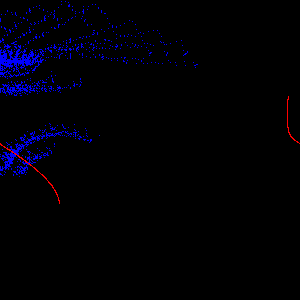
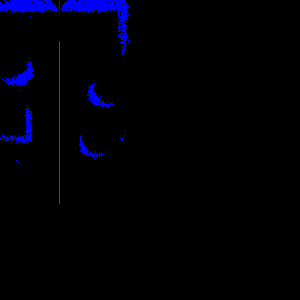
progress on lab 4

diff --git a/lab4/controllers/csci3302_lab4/csci3302_lab4.py b/lab4/controllers/csci3302_lab4/csci3302_lab4.py
@@ -116,6 +116,7 @@ def bresenham_line(x0, y0, x1, y1):
 occupancy_grid = [[None for _ in range(map_width)] for _ in range(map_height)]
 display.setColor(0x000000)  # Black background.
 display.fillRectangle(0, 0, map_width, map_height)
+display.imageSave(None,"map.png") 
 while robot.step(SIM_TIMESTEP) != -1:     
     #####################################################
     #                 Sensing                           #
@@ -147,21 +148,22 @@ while robot.step(SIM_TIMESTEP) != -1:
     # rx and ry into world coordinates wx and wy. 
     # The arena is 1x1m2 and its origin is in the top left of the arena. 
     # if state=='stationary':
-    robot_world_trans_matrix = np.array([
-        [np.cos(pose_theta),  np.sin(pose_theta), pose_x],
-        [-np.sin(pose_theta), np.cos(pose_theta), pose_y],
-        [0,                   0,                1     ]
-    ])
     free_space_lines = []
     obstacle_points = []
+    robot_world_trans_matrix = np.array([
+        [np.cos(pose_theta), -np.sin(pose_theta), pose_x],
+        [np.sin(pose_theta),  np.cos(pose_theta), pose_y],
+        [0,                   0,                  1     ]
+    ])
+
     for i, rho in enumerate(lidar_sensor_readings):
         if np.isinf(rho):
             continue
-        # print("Lidar Sensor: ", i, " reading: ", rho)
-        alpha = lidar_offsets[i]  # angle offset for beam i
+        alpha = lidar_offsets[i]  # beam's angular offset relative to forward
         
-        r_x = rho * np.sin(alpha)
-        r_y = rho * np.cos(alpha)
+        # Convert polar to robot-frame Cartesian coordinates:
+        r_x = rho * np.sin(alpha)   # lateral offset (to right)
+        r_y = rho * np.cos(alpha)   # forward offset
         
         # Form the homogeneous coordinate for the robot-frame point.
         robot_point = np.array([r_x, r_y, 1.0])
@@ -169,6 +171,8 @@ while robot.step(SIM_TIMESTEP) != -1:
         # Use the transformation matrix to get world coordinates.
         world_point = robot_world_trans_matrix.dot(robot_point)
         wx, wy = world_point[0], world_point[1]
+        
+        # Convert to pixel coordinates (assuming a 1×1 m arena mapped to display dimensions)
         obs_pixel_x = int(wx * map_width)
         obs_pixel_y = int(wy * map_height)
         
@@ -177,7 +181,7 @@ while robot.step(SIM_TIMESTEP) != -1:
         # obstacle_points.append((obs_pixel_x, obs_pixel_y))
         # if (obs_pixel_x, obs_pixel_y) not in known_obs:
         #     known_obs.add((obs_pixel_x, obs_pixel_y))
-        # # print("Obstacle detected at: ", obs_pixel_x, obs_pixel_y)
+        print("Obstacle detected at: ", obs_pixel_x, obs_pixel_y)
 
         # if (pixel_x, pixel_y, obs_pixel_x, obs_pixel_y) not in known_free:
         #     known_free.add((pixel_x, pixel_y, obs_pixel_x, obs_pixel_y))
@@ -279,4 +283,4 @@ while robot.step(SIM_TIMESTEP) != -1:
     pose_theta += (dsr-dsl)/EPUCK_AXLE_DIAMETER
     i+=1
     # Feel free to uncomment this for debugging
-    # print("X: %f Y: %f Theta: %f " % (pose_x,pose_y,pose_theta))
+    print("X: %f Y: %f Theta: %f " % (pose_x,pose_y,pose_theta))
